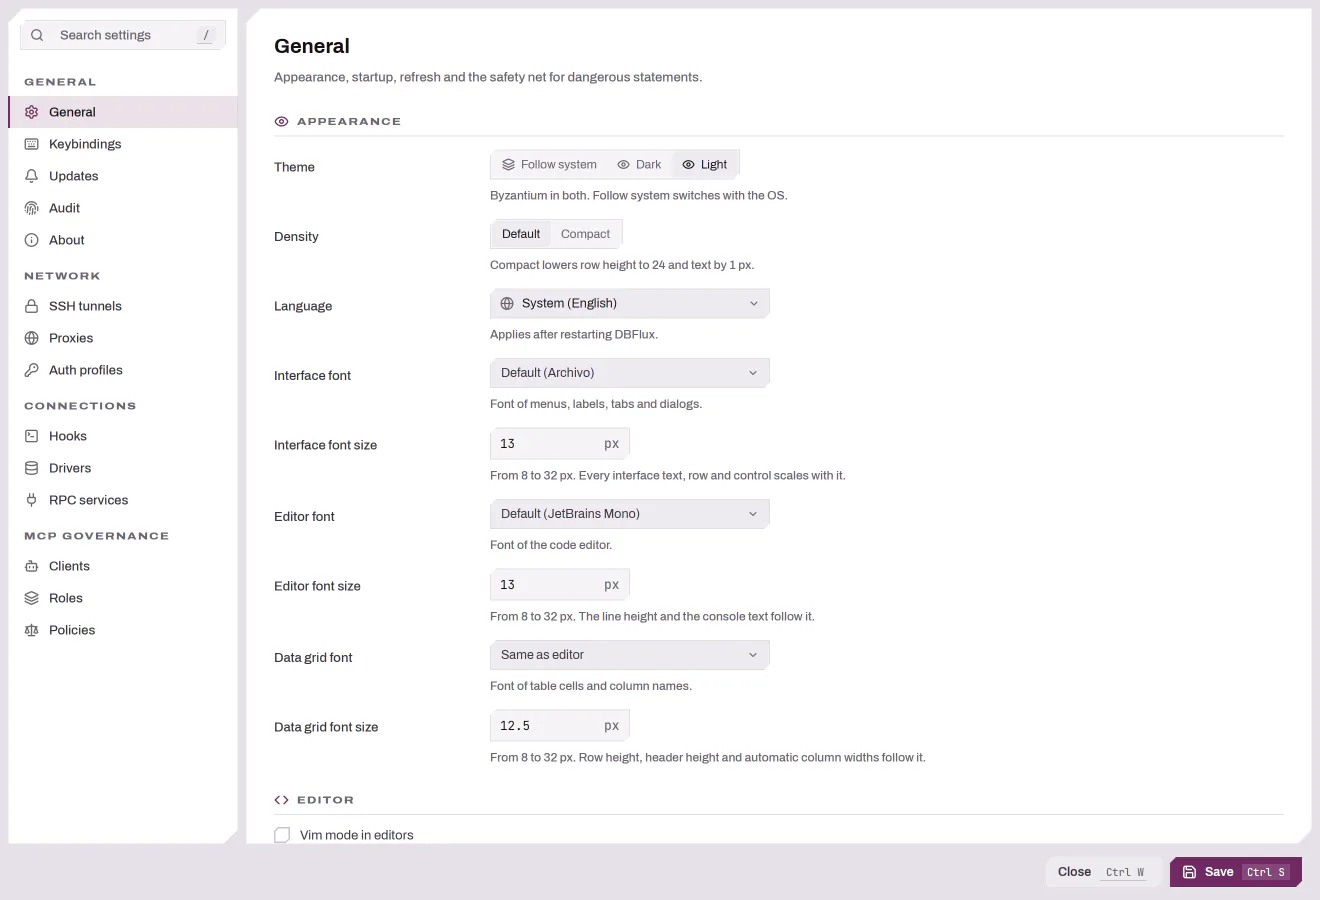
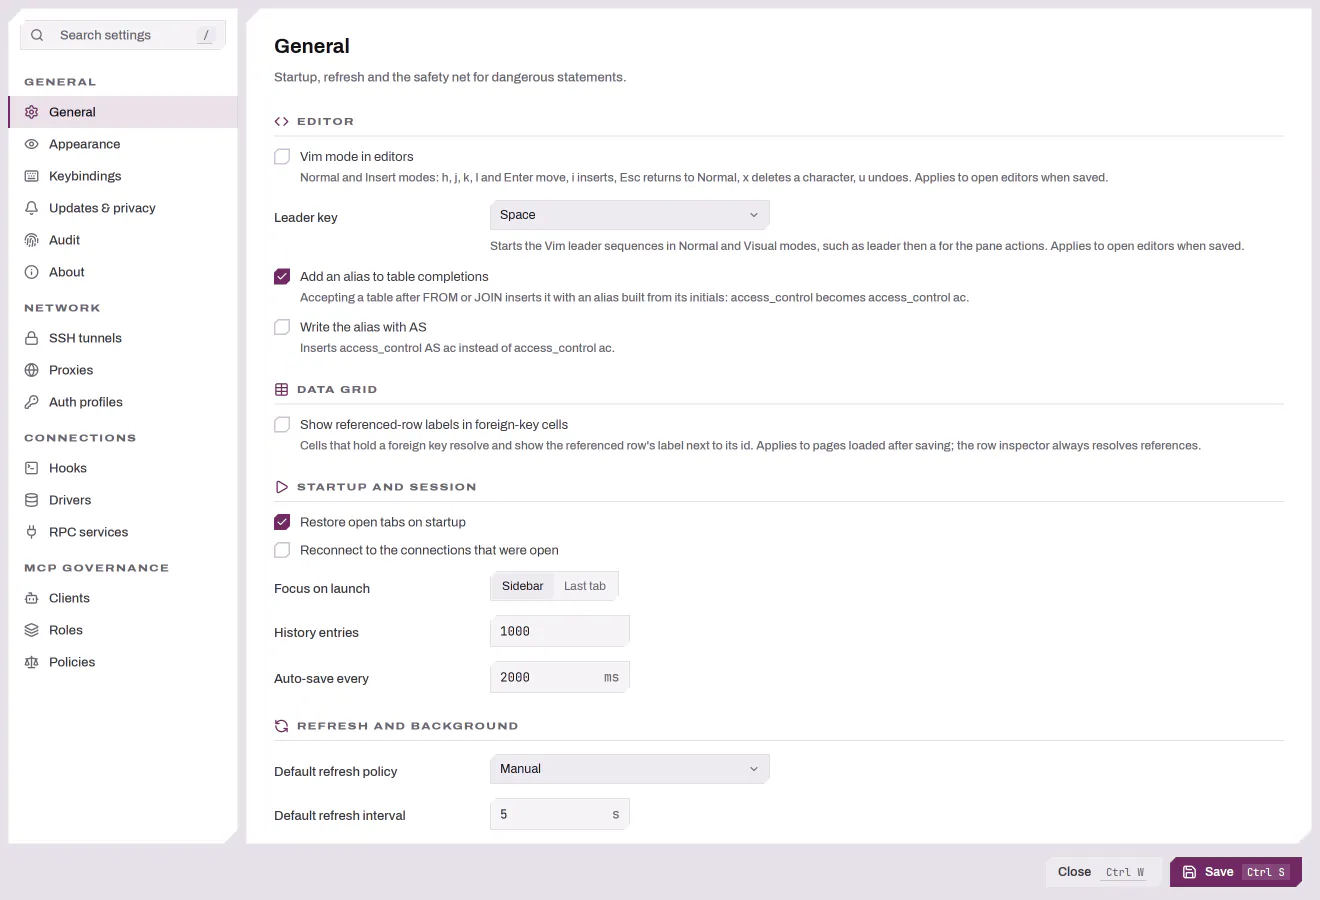
docs(settings): add the Appearance screenshots and retake General
The General screenshots showed the appearance group that moved to its own
page. Retake them and add appearance-{light,dark}.webp to every Settings
page translation.

The screenshot script selects the theme on the Appearance page now, and
its seed files create the timescaledb and vector extensions only when the
image does not already provide them.

diff --git a/scripts/docs_screenshots/shots.py b/scripts/docs_screenshots/shots.py
@@ -266,14 +266,14 @@ DEMO_CONNECTION_STEPS = (
 
 
 def theme_steps(theme: str) -> tuple[Step, ...]:
-    """Selects `theme` ("light" or "dark") in Settings > General and saves it."""
+    """Selects `theme` ("light" or "dark") in Settings > Appearance and saves it."""
 
     return (
         open_window("ctrl-,"),
-        wait_visible(f"segmented-theme-{theme}"),
+        ensure(wait_visible(f"segmented-theme-{theme}"), click("settings-nav-appearance")),
         ensure(wait_checked(f"segmented-theme-{theme}", True), click(f"segmented-theme-{theme}")),
         # The footer marks unsaved changes until they are saved.
-        ensure(wait_gone(r"^settings-unsaved-changes$"), click("save-general")),
+        ensure(wait_gone(r"^settings-unsaved-changes$"), click("save-appearance")),
         close_window("ctrl-w"),
     )
 
@@ -712,6 +712,14 @@ SHOTS = (
         steps=(
             open_window("ctrl-,"),
             wait_visible("save-general"),
+        ),
+    ),
+    Shot(
+        page="settings",
+        name="appearance",
+        steps=(
+            open_window("ctrl-,"),
+            ensure(wait_visible("save-appearance"), click("settings-nav-appearance")),
         ),
     ),
     Shot(

diff --git a/docs/ko/SETTINGS.md b/docs/ko/SETTINGS.md
@@ -137,6 +137,11 @@ driver RPC 1.6 이상을 사용하고 드라이버가 `REQUEST_ROW_LIMIT`를 선
 
 ## 모양
 
+<picture>
+  <source media="(prefers-color-scheme: dark)" srcset="../images/settings/appearance-dark.webp">
+  <img src="../images/settings/appearance-light.webp" alt="테마, 밀도, 언어, 글꼴, 스크롤바 설정이 보이는 설정 창의 모양 섹션">
+</picture>
+
 테마, 밀도, 언어, 글꼴. 저장은 [일반](#일반)에서 설명한 대로 동작합니다. 변경 사항을 바로 적용하고 백그라운드에서 기록합니다.
 
 | 설정 | 옵션 | 기본값 |

diff --git a/docs/es/SETTINGS.md b/docs/es/SETTINGS.md
@@ -152,6 +152,11 @@ las bases de datos Nightly y stable.
 
 ## Apariencia
 
+<picture>
+  <source media="(prefers-color-scheme: dark)" srcset="../images/settings/appearance-dark.webp">
+  <img src="../images/settings/appearance-light.webp" alt="La ventana de Settings en la sección Apariencia, con los ajustes de tema, densidad, idioma, fuentes y barras de desplazamiento">
+</picture>
+
 Theme, densidad, idioma y fuentes. Guardar funciona como se describe en [General](#general): aplica los cambios al instante y los escribe en segundo plano.
 
 | Setting      | Opciones                 | Default |

diff --git a/docs/SETTINGS.md b/docs/SETTINGS.md
@@ -147,6 +147,11 @@ stable databases are separated.
 
 ## Appearance
 
+<picture>
+  <source media="(prefers-color-scheme: dark)" srcset="images/settings/appearance-dark.webp">
+  <img src="images/settings/appearance-light.webp" alt="The Settings window on the Appearance section, showing the theme, density, language, font and scrollbar settings">
+</picture>
+
 Theme, density, language and fonts. Save works as described under [General](#general): it applies the changes at once and writes them in the background.
 
 | Setting | Options | Default |
